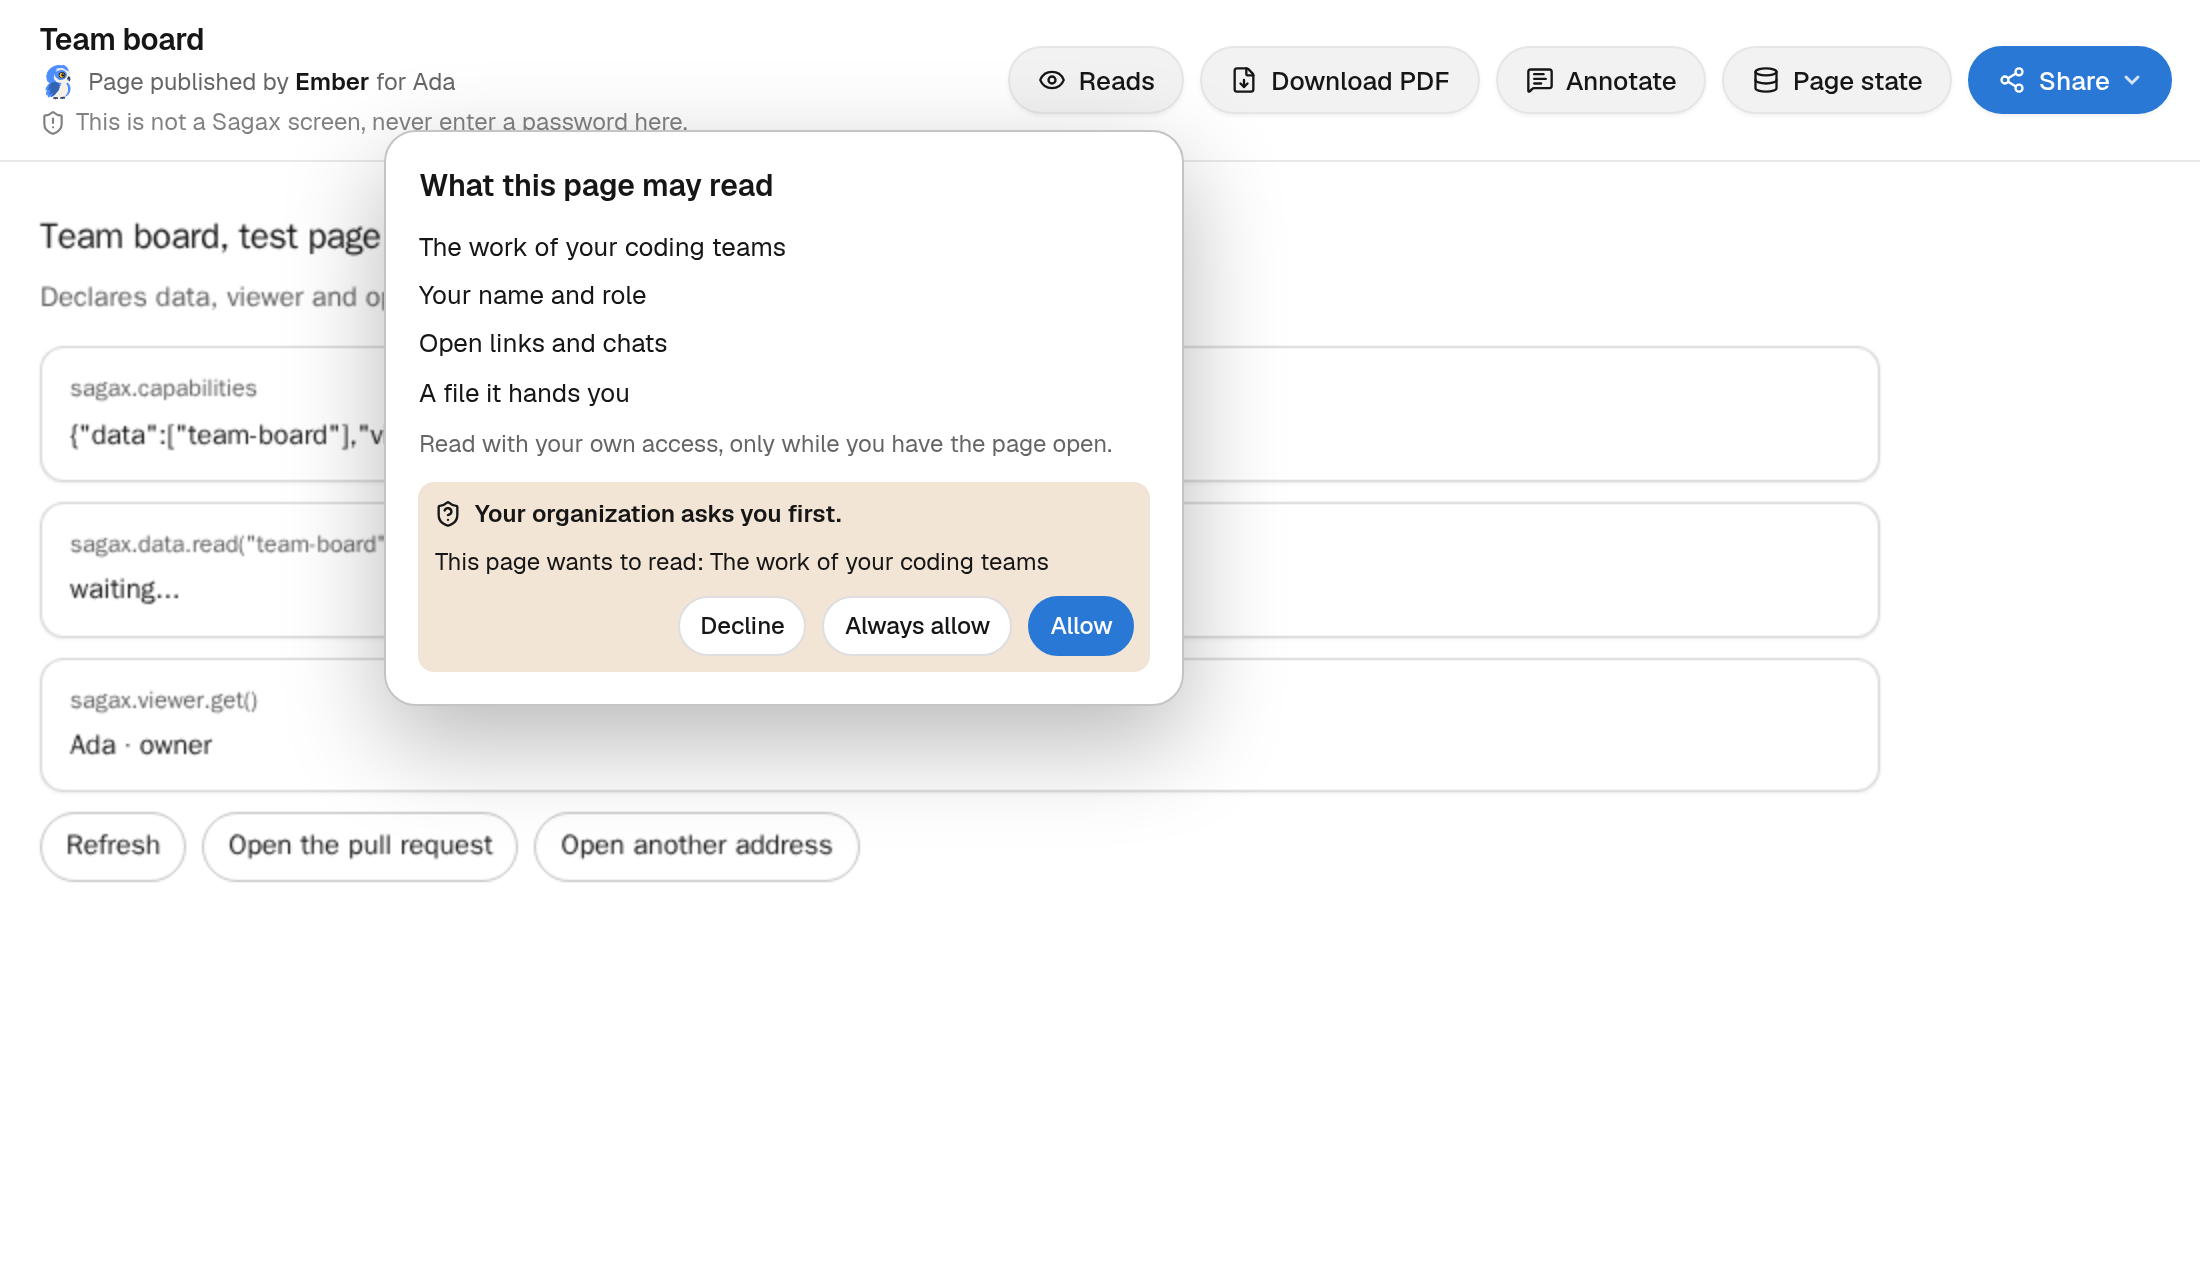
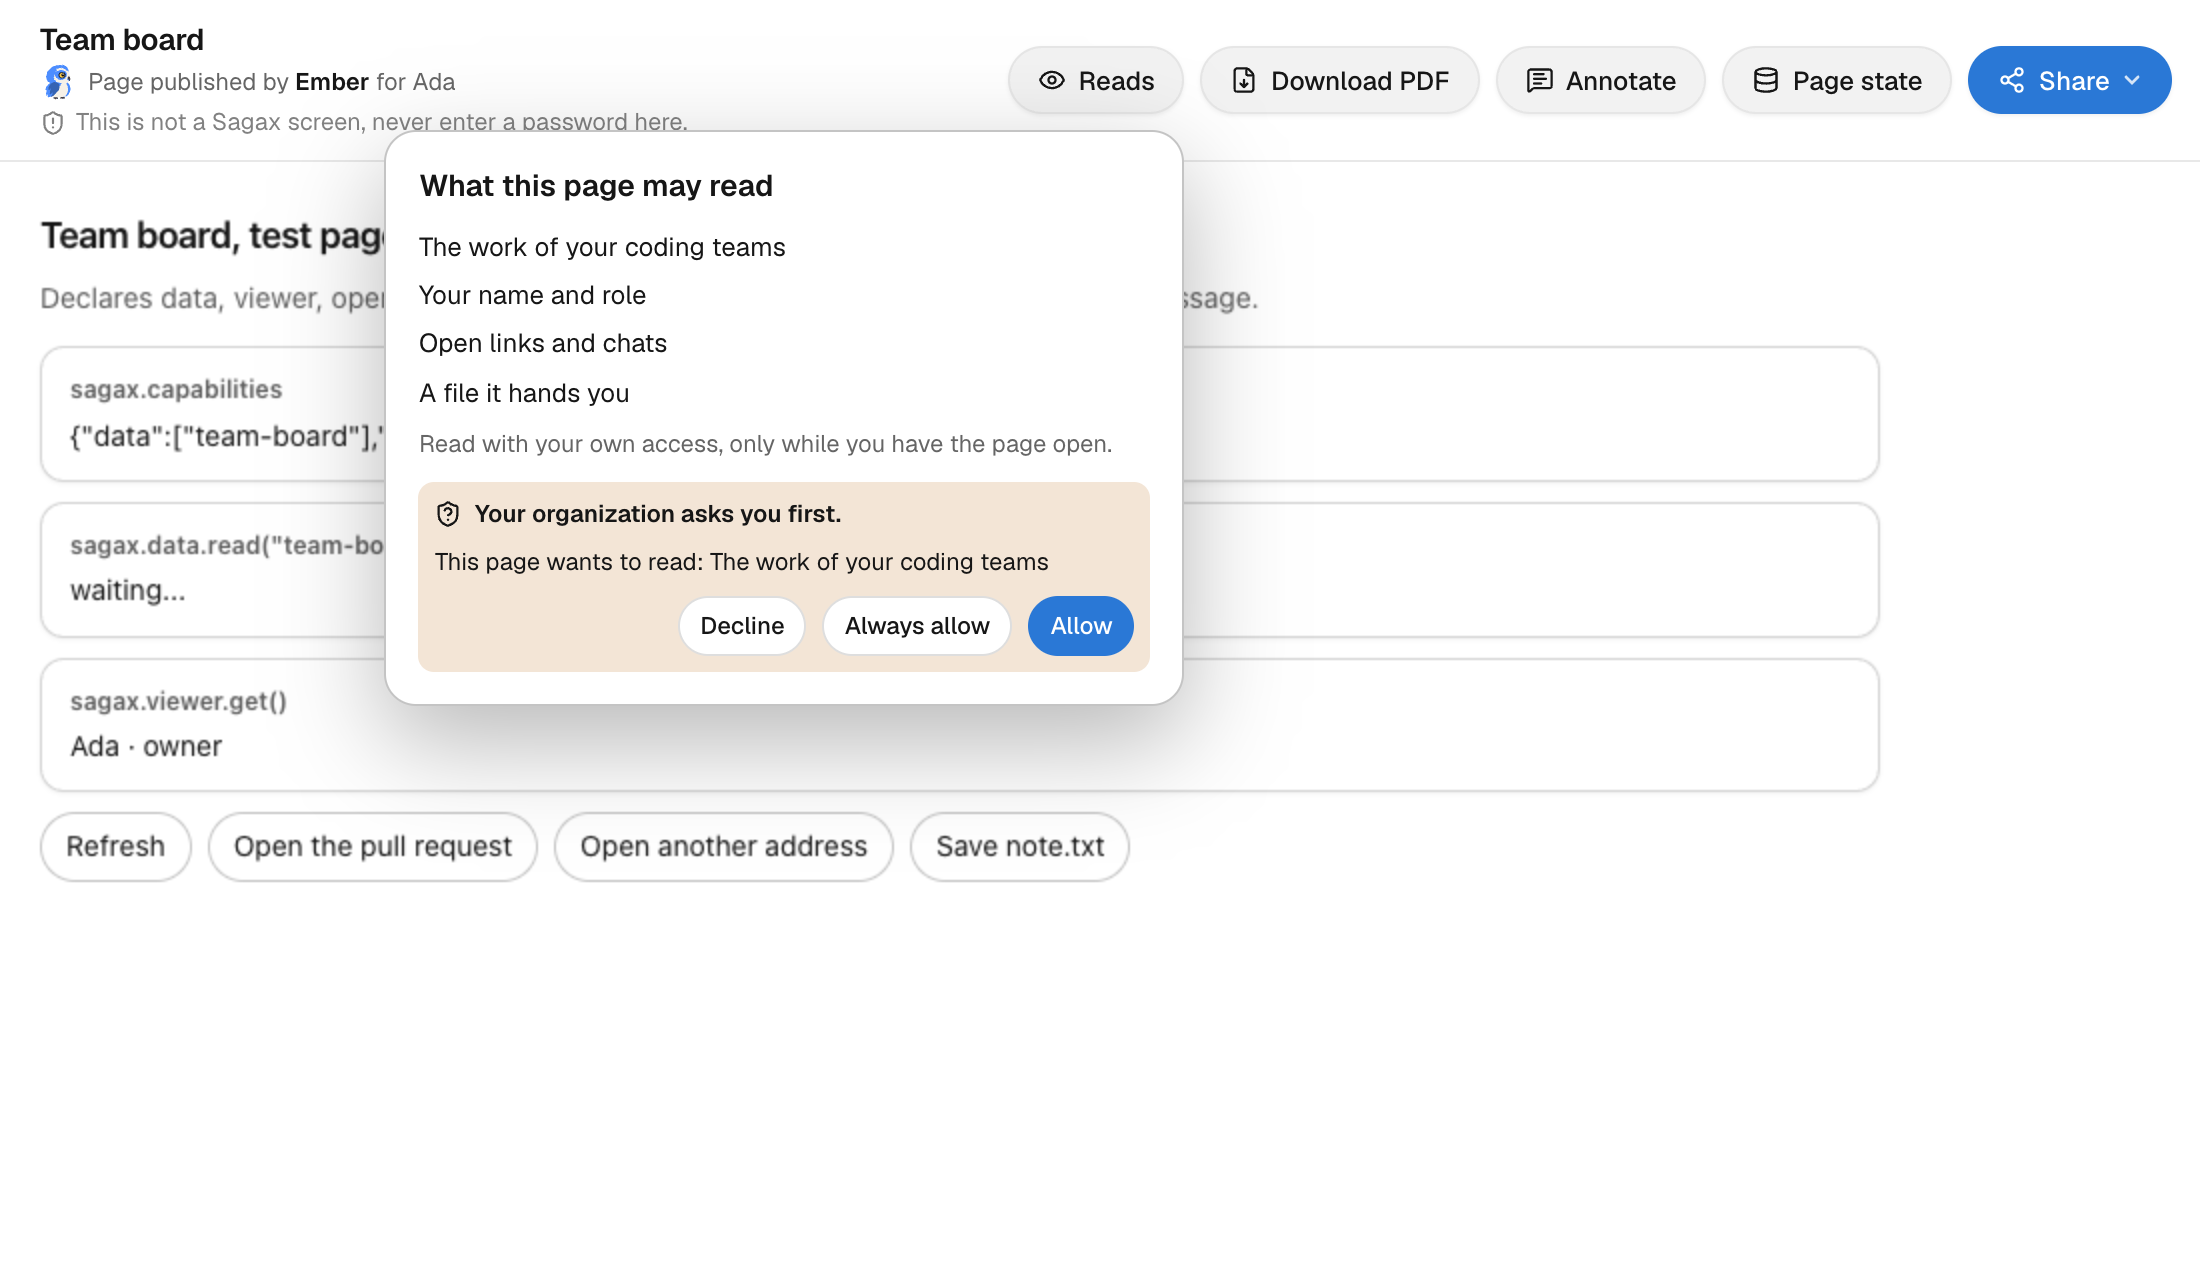
fix: save a page file only from the click on the message
The page's gesture flag is ignored. The broker records
userActivation.isActive before it waits for capabilities, then
saves only when that click was live. A headless click saved
note.txt. Captures at 700, in French, and on iPhone sit with
the section 6 checklist.

diff --git a/src/page-reader/capabilities.test.ts b/src/page-reader/capabilities.test.ts
@@ -589,10 +589,15 @@ describe("files.download", () => {
         reads: [{ name: "team-board", label: "The work of your coding teams" }],
       },
     });
-    const ask = (args: Record<string, unknown>, options: { gesture?: boolean; id?: number; omitGesture?: boolean } = {}) => {
+    const ask = (args: Record<string, unknown>, options: { gesture?: boolean; id?: number; omitGesture?: boolean; active?: boolean } = {}) => {
       const data: Record<string, unknown> = { type: CAP_MESSAGE, v: 1, id: options.id ?? 1, cap: "files.download", args };
       if (!options.omitGesture) data.gesture = options.gesture ?? true;
-      return ctx.broker.onMessage({ source: ctx.frame, origin: "null", data });
+      return ctx.broker.onMessage({
+        source: ctx.frame,
+        origin: "null",
+        data,
+        userActivation: { isActive: options.active !== false },
+      });
     };
     return { ...ctx, saveFile, ask };
   }
@@ -631,13 +636,45 @@ describe("files.download", () => {
     noSave(saveFile);
   });
 
-  it("refuses a download when gesture is not true, and saves nothing", async () => {
-    for (const options of [{ gesture: false }, { omitGesture: true }]) {
+  it("refuses a download when the message has no live click, and saves nothing", async () => {
+    for (const options of [{ active: false }, { active: false, gesture: true }, { active: false, omitGesture: true }]) {
       const { ask, result, saveFile } = withFiles();
       await ask({ name: "note.txt", mime: "text/plain", data: TEXT }, options);
       expect(result()).toMatchObject({ ok: false, error: "bad_request" });
       noSave(saveFile);
     }
+  });
+
+  it("saves from a live click even when the page omits gesture or sets it false", async () => {
+    for (const options of [{ gesture: false }, { omitGesture: true }]) {
+      const { ask, result, saveFile } = withFiles();
+      await ask({ name: "note.txt", mime: "text/plain", data: TEXT }, options);
+      expect(result()).toMatchObject({ ok: true });
+      expect(saved(saveFile)?.name).toBe("note.txt");
+    }
+  });
+
+  it("keeps a click that was active on arrival and ends while capabilities load", async () => {
+    let live = true;
+    let release: () => void = () => {};
+    const gate = new Promise<void>((resolve) => { release = resolve; });
+    const saveFile = vi.fn();
+    const ctx = setup({ saveFile } as Partial<BrokerDeps>, {});
+    ctx.api.mockImplementation(async () => {
+      await gate;
+      return { capabilities: { data: [], viewer: false, open: false, files: ["download"] }, reads: [] };
+    });
+    const pending = ctx.broker.onMessage({
+      source: ctx.frame,
+      origin: "null",
+      data: { type: CAP_MESSAGE, v: 1, id: 1, cap: "files.download", gesture: true, args: { name: "note.txt", mime: "text/plain", data: TEXT } },
+      userActivation: { get isActive() { return live; } },
+    });
+    live = false;
+    release();
+    await pending;
+    expect(ctx.result()).toMatchObject({ ok: true });
+    expect(saved(saveFile)?.name).toBe("note.txt");
   });
 
   it("saves a file of each allowed mime", async () => {

diff --git a/src/page-reader/capabilities.ts b/src/page-reader/capabilities.ts
@@ -174,7 +174,7 @@ export type ApprovalChoice = "once" | "always" | "decline";
 export interface CapabilityBroker {
   start(): Promise<void>;
   /** A message from any window: answers it when it is the page's call. */
-  onMessage(event: { source: unknown; origin: string; data: unknown }): Promise<boolean>;
+  onMessage(event: { source: unknown; origin: string; data: unknown; userActivation?: { isActive?: boolean } | null }): Promise<boolean>;
   /** A link the page asked to open through the wrapper's own bridge: true
    * when this took it (the reader is asked first), so the caller stops it. */
   guardOpen(event: { source: unknown; data: unknown }): boolean;
@@ -386,9 +386,10 @@ export function createCapabilityBroker(deps: BrokerDeps): CapabilityBroker {
     return false;
   };
 
-  const downloadFile = (request: PageCapRequest): { ok: true; value: true } | { ok: false; error: PageCapError; message?: string } => {
-    // gesture is a boolean on the message, not a page argument. Only a live click saves.
-    if (request.gesture !== true) return { ok: false, error: "bad_request", message: "A download starts from a click." };
+  const downloadFile = (request: PageCapRequest, fromClick: boolean): { ok: true; value: true } | { ok: false; error: PageCapError; message?: string } => {
+    // fromClick was read off this message before the capabilities load.
+    // The gesture flag is the page's own boolean, so it is not a click.
+    if (!fromClick) return { ok: false, error: "bad_request", message: "A download starts from a click." };
     const mime = request.args?.mime;
     if (typeof mime !== "string" || !(PAGE_CAP_FILE_MIMES as readonly string[]).includes(mime)) {
       return { ok: false, error: "bad_request", message: "This file type is not allowed." };
@@ -428,6 +429,9 @@ export function createCapabilityBroker(deps: BrokerDeps): CapabilityBroker {
         answer(id, { ok: false, error: deps.signedIn ? "not_found" : "sign_in", message: deps.signedIn ? "This page is not available." : "Sign in to use this page's data." });
         return true;
       }
+      // Transient activation ends across the wait below. Read it now.
+      // A page can set gesture true on a load, so that flag is not the click.
+      const fromClick = event.userActivation?.isActive === true;
       await (started ??= load());
       const source = request.cap === "data.read" ? request.args?.name : undefined;
       if (request.cap === "data.read" && (typeof source !== "string" || !SOURCE_NAME.test(source))) {
@@ -458,7 +462,7 @@ export function createCapabilityBroker(deps: BrokerDeps): CapabilityBroker {
           receivedData = true;
           answer(id, { ok: true, value: info });
         } else if (request.cap === "files.download" && state.caps) {
-          answer(id, downloadFile(request));
+          answer(id, downloadFile(request, fromClick));
         } else if (!state.caps) {
           answer(id, { ok: false, error: "unavailable", message: "This page's capabilities could not be read." });
         } else {

diff --git a/docs/screenshots/page-capabilities/checklist.md b/docs/screenshots/page-capabilities/checklist.md
@@ -1,0 +1,76 @@
+# 6. Liste de contrôle avant de dire « c'est au niveau »
+
+Source: docs/design/ux-reference-grokbot-cursor.md, heading "6. Liste de contrôle avant de dire « c'est au niveau »", items 1 to 17.
+Surface: the reading link of a published page (capabilities bar, ask-first card, link confirmation, file handoff). PR 3647, branch feat/3574-page-files-download.
+
+The item text below is the checklist. The next line is the verdict and the proof.
+
+1. La surface est décrite dans ce fichier ; sinon, la section a été ajoutée dans la même PR.
+
+yes. The published page is section 2.12 of this same file (a page covers the conversation, back to the thread, share, the rest behind the menu). The reading link is the wrapper of that page: section "Bot content has a default theme" says a reading link gets light and dark from the reader's system. This commit adds no new surface, so it adds no new section.
+
+2. Chaque information et chaque action de l'écran d'avant a une place (liste avant et après jointe).
+
+yes. Nothing on the screen was removed. Before (HEAD 5cbc190e): the Reads control, the list (data labels, your name and role, open links and chats, a file it hands you), the ask-first card (Decline, Always allow, Allow), the link card (host, address, show the whole address, Cancel, Always allow this site, Open), and the publication card beside the neighbour card that declares nothing. After: the same rows and the same actions. The only change is the save gate: a download is accepted when the browser sets userActivation.isActive on the message, and the page's own gesture boolean is ignored.
+
+3. Chaque option n'existe qu'à un endroit ; les autres surfaces y mènent par un lien.
+
+yes. One Reads button (data-reader-caps) opens the only capabilities list. Ask first and the link confirmation sit in that same popover, not on a second screen. The file row states the capability; the page's own Save button is the one control that starts a download.
+
+4. Aucune fenêtre modale hors confirmation destructive ou exception listée (principe 5) ; le choix panneau, vue ou popover suit le tableau du principe.
+
+yes. The list is a popover (role=dialog, class sr-popover) anchored to the bar button. Ask first and the link confirmation are role=alert inside that popover. That matches the short-choice row of the principle table. No new modal window was added.
+
+5. Seuls les composants partagés (réglages, cartes, rangées, pilules, cartes de question, popovers) sont utilisés ; aucune couleur, aucun rayon, aucune ombre en dur.
+
+yes. The panel uses the reader's existing classes only: sr-popover, sr-row, sr-button, sr-button-primary, sr-confirm. This commit's code (src/page-reader/capabilities.ts and scripts/capture/page-capabilities.mjs) adds no color, no radius and no shadow.
+
+6. Une seule action principale par écran, à l'accent ; le destructif en rouge, avec sa conséquence écrite.
+
+yes. Each card has one primary button, sr-button-primary: Allow on ask first, Open on the link card. Decline, Cancel and Always allow stay secondary. No destructive action was added, so no red button was added. The link card states the consequence (capLinkNote: the address was not in the data the page read).
+
+7. Espacements sur l'échelle de 4, tailles de texte dans la liste fermée, casse de phrase, aucun libellé en capitales.
+
+yes. The existing reader chrome uses the 4 scale (gap 8px and 12px, radius 8px and 12px) and the closed text sizes (12px and 15px in the popover). Labels are sentence case in both languages (Reads / Lit, Allow / Permettre, Open / Ouvrir). No label is in capitals.
+
+8. Cartes sans ombre au repos ; ombre seulement sur ce qui flotte.
+
+yes. The ask-first card and the link card use sr-confirm, which has a tint and no shadow. Shadow is only on what floats: sr-popover and the bar.
+
+9. Survol, pressé, focus clavier, choisi et désactivé vérifiés ; tout se fait au clavier, Échap recule, la palette connaît l'action.
+
+yes. reader.css already has hover, focus-visible, aria-pressed and disabled on the bar button, and disabled plus primary hover on sr-button. Escape closes the popover (keydown listener in ReaderCapabilities.tsx). The capture presses Escape before the link shot. The reading link is outside the app shell, so this action is not an app palette command.
+
+10. États vide, chargement, erreur et hors ligne dessinés ; une section vide disparaît.
+
+yes. A page that declares nothing draws no control (pageCapabilitiesAny is false, the component returns null), so an empty section is absent. The file row is absent unless files includes download. The blocked read is the ask-first card, captured as reader-ask-first, reader-700-ask-first, reader-narrow-ask-first, reader-fr-ask-first, reader-iphone-ask-first and reader-ipad-ask-first, light and dark. This wrapper does not add a separate loading or offline screen: the frame is the page itself.
+
+11. Aucun UUID, nom d'outil, chemin interne ni cron à l'écran ; textes en français et en anglais, sans tiret cadratin ni demi-cadratin (`node scripts/generate-locale.mjs --check`).
+
+yes. Product strings go through readerText, English and French (capReads through capLinkLess in shared/page-reader.ts). The capabilities chrome shows labels, not a page id, a tool name, an internal path or a cron line. No em dash and no en dash in those strings or in the two files this commit edits. Locale check: `node scripts/generate-locale.mjs --check` exit 0 (locale catalogs valid, 10 languages, 14780 English strings, fr.json 100%).
+
+12. Contraste mesuré (`pnpm check:contrast` si une valeur de palette a bougé).
+
+n/a. No palette value changed. The diff is the download gate, the headless capture script, these screenshots and this checklist. pnpm check:contrast was not required.
+
+13. Captures headless, jamais de fenêtre visible sur le poste du propriétaire : bureau large, 700 px et 390 px ; clair et sombre ; français et anglais ; iPhone au simulateur si l'écran existe sur iOS. Comparées à une page voisine existante (mêmes marges, mêmes alignements).
+
+yes. 78 PNGs already on disk under docs/screenshots/page-capabilities, from scripts/capture/page-capabilities.mjs (chromium headless: true, no window). Reader: 1100 CSS px (2200x1280 at 2x), 700 CSS px (1400x1800), 390 CSS px (780x1520), light and dark hashes differ, English and French, iPhone 14 (1170x1992) and iPad gen 7 (1620x2160). Neighbour cards are card-neighbour next to card-declares at the same sizes. The publication card element shot under skin=pulsatrix is byte-identical in light and dark (the card node did not restyle); the reader chrome did. There is no native iOS screen for this wrapper, so the iOS simulator was not used; iPhone and iPad are device captures of the same web wrapper.
+
+14. Le parcours principal a été essayé pour vrai (pas seulement les tests unitaires).
+
+yes. CAPTURE_PROBE_ONLY=1 node scripts/capture/page-capabilities.mjs clicked Save note.txt in the headless reader. The browser download name was note.txt and the page reported saved note.txt. The broker records userActivation.isActive when the message arrives, before the capabilities load. Unit tests refuse the same call when that activation is already inactive, including when the page sets gesture true.
+
+15. iPhone et iPad suivent le même rangement, ou l'écart est écrit dans la PR.
+
+yes. iPhone 14 and iPad (gen 7) use the same ReaderCapabilities component as the wide window: same popover, same ask-first card, same link card. Captures: reader-iphone-reads, reader-iphone-ask-first, reader-iphone-link-confirm, reader-ipad-reads, reader-ipad-ask-first, reader-ipad-link-confirm, light and dark, plus reader-iphone-fr for French. No second layout.
+
+16. Aucun élément ajouté réservé à un admin pour ce qui reste dans l'environnement de la personne.
+
+yes. No admin-only control was added. The new check is the browser user activation on the reader's own message. Allow, decline and the file save stay actions of the person who has the page open.
+
+17. Tests des fichiers touchés seulement ; la passe complète attend la coupe de version.
+
+yes. Touched tests only, not the full suite. `pnpm exec vitest run src/page-reader/capabilities.test.ts` passed, 58 tests. They save on a live userActivation, refuse when that activation is inactive even if gesture is true, and keep a click that ends while capabilities load.
+
+🤖 Generated with [Claude Code](https://claude.com/claude-code)
